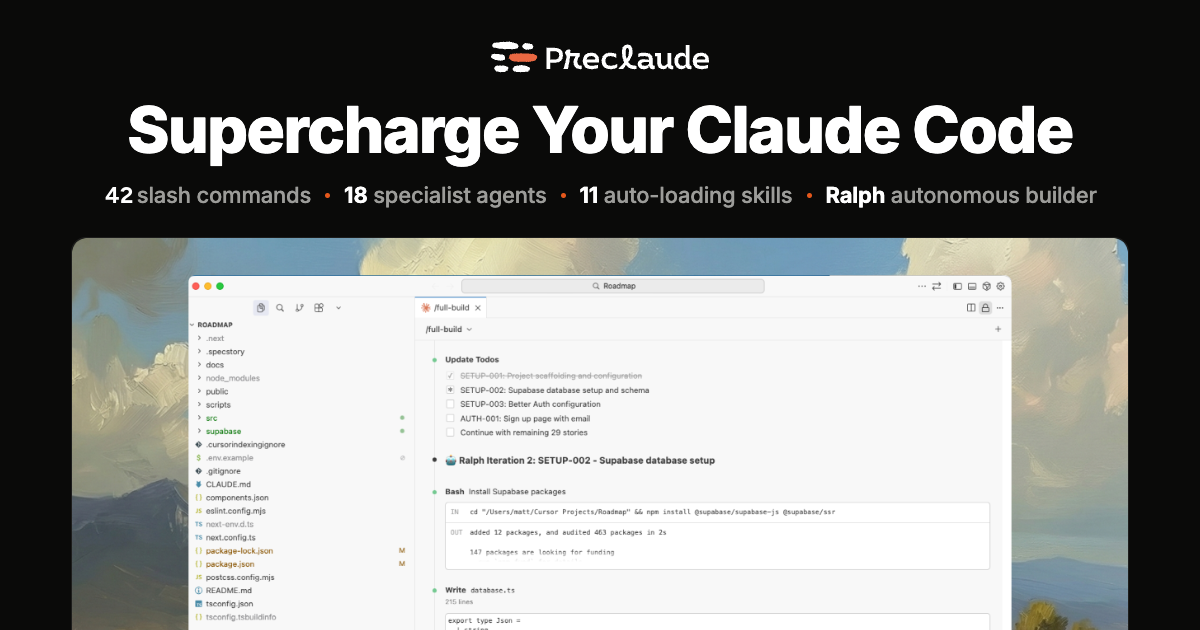
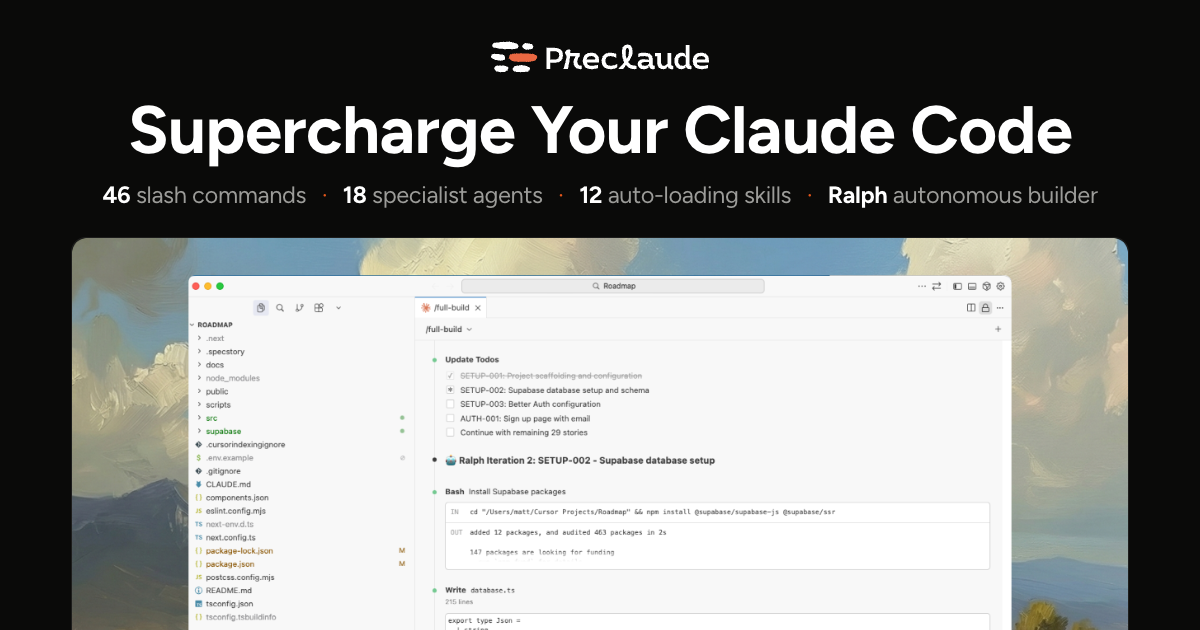
fix(landing): make the OG image regenerable instead of hand-patched
The counts are baked into opengraph-image.png, so they went stale every
time a command was added and the old template was long gone.

landing/og-image.html plus scripts/build-og-image.mjs now read the real
counts off the filesystem, patch the template and screenshot at 1200x630.
The brand lockup and bottom visual are cropped from the previous image,
so only type is re-rendered — the panel region diffs to zero pixels
against the original. --check runs in CI.

Changed region(s): [[0.0925, 0.1508, 0.8942, 0.2714], [0.0925, 0.3016, 0.925, 0.3317]]

diff --git a/landing/og-image.html b/landing/og-image.html
@@ -1,0 +1,82 @@
+<!doctype html>
+<html lang="en">
+<head>
+<meta charset="utf-8">
+<title>Preclaude — Open Graph image</title>
+<link rel="preconnect" href="https://fonts.googleapis.com">
+<link rel="preconnect" href="https://fonts.gstatic.com" crossorigin>
+<link href="https://fonts.googleapis.com/css2?family=Figtree:wght@400;500;600;700&display=swap" rel="stylesheet">
+<style>
+  /*
+   * Source template for landing/public/opengraph-image.png.
+   *
+   * The counts in the stat line are baked into that PNG, so they went stale
+   * every time a command was added. Regenerate instead of pixel-patching:
+   *
+   *   node ../scripts/build-og-image.mjs
+   *
+   * The brand lockup and the bottom visual are cropped from the original
+   * image (public/og/) so only the type is re-rendered.
+   */
+  * { margin: 0; padding: 0; box-sizing: border-box; }
+
+  body {
+    width: 1200px;
+    height: 630px;
+    background: #0A0A09;
+    font-family: 'Figtree', sans-serif;
+    -webkit-font-smoothing: antialiased;
+    overflow: hidden;
+  }
+
+  .logo {
+    display: block;
+    width: 230px;
+    height: 42px;
+    margin: 36px auto 0;
+  }
+
+  h1 {
+    margin-top: 15px;
+    font-size: 67px;
+    font-weight: 700;
+    line-height: 1.1;
+    letter-spacing: -0.01em;
+    color: #fff;
+    text-align: center;
+  }
+
+  .stats {
+    margin-top: 16px;
+    font-size: 23.7px;
+    font-weight: 400;
+    letter-spacing: -0.016em;
+    line-height: 1;
+    color: #9C9C99;
+    text-align: center;
+    white-space: nowrap;
+  }
+
+  .stats b { font-weight: 700; color: #fff; }
+  .stats i { font-style: normal; color: #E4571B; padding: 0 10px; }
+
+  .panel {
+    display: block;
+    width: 1200px;
+    margin-top: 19px;
+  }
+</style>
+</head>
+<body>
+  <img class="logo" src="public/og/logo.png" alt="Preclaude">
+
+  <h1>Supercharge Your Claude Code</h1>
+
+  <p class="stats">
+    <b>46</b> slash commands <i>·</i> <b>18</b> specialist agents <i>·</i>
+    <b>12</b> auto-loading skills <i>·</i> <b>Ralph</b> autonomous builder
+  </p>
+
+  <img class="panel" src="public/og/panel.png" alt="">
+</body>
+</html>
